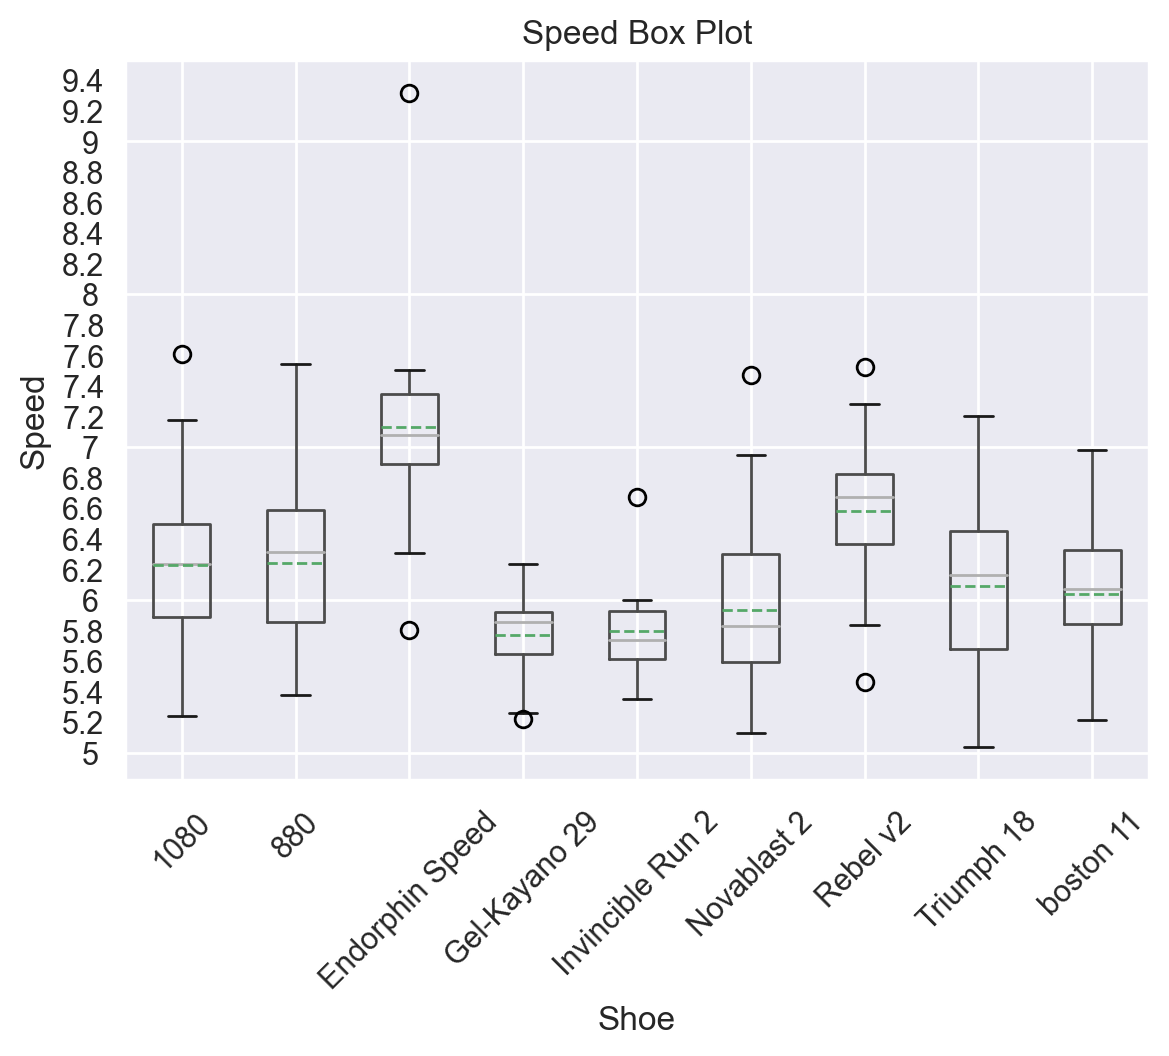
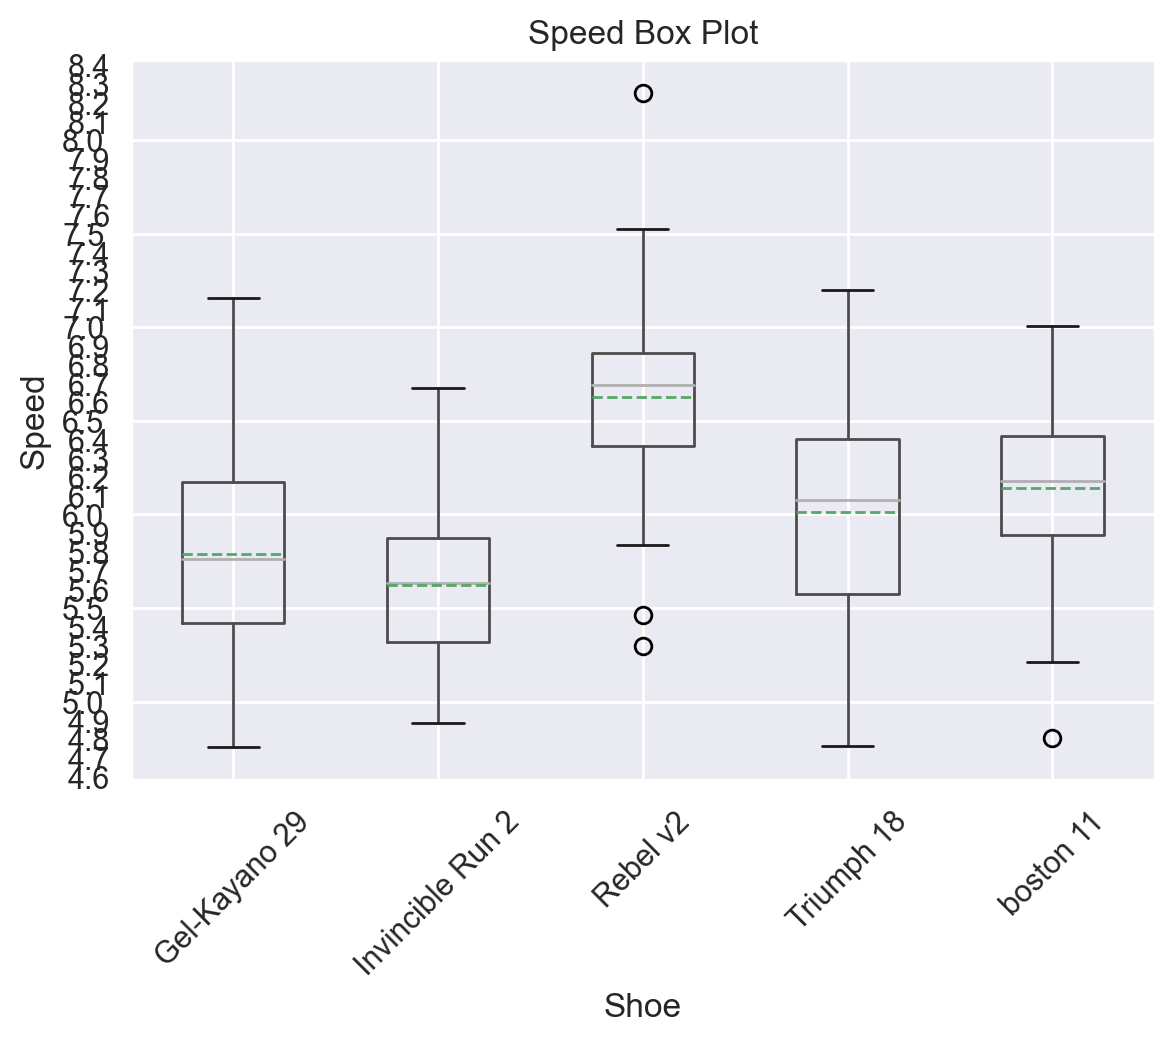
Tweaked total miles required for shoes to appear. Can be configured at line 115.

diff --git a/main.py b/main.py
@@ -112,7 +112,7 @@ for index, row in df2.iterrows():
     x = row['distance']
     y = index
     z = row['gear_id']
-    if x <= 50:
+    if x <= 150:
         shoes_removed.append(z)
 
 # Drop the gear_ids in the shoes_removed list from df.

diff --git a/README.md b/README.md
@@ -64,6 +64,7 @@ payload = {
 - Mean (average) is a bit tricky in some places (such as speed) due to calculating "average of averages". This is why the additional data provided by the boxplot is useful, e.g., median and range.
   - Some weighted averages could be useful for several metrics (potential roadmap item).
 - "Average Pace" is calculated by the total moving time / total miles on a shoe. 
+- Cadence can be tricky because some runs (Fartleks and intervals) can have misleading cadence averages.
 - The program will filter out any shoes that have less than 50 miles on them or are "retired" in the Strava UI. You can modify the code here to change this behavior:
 ```
     if model['retired']:
